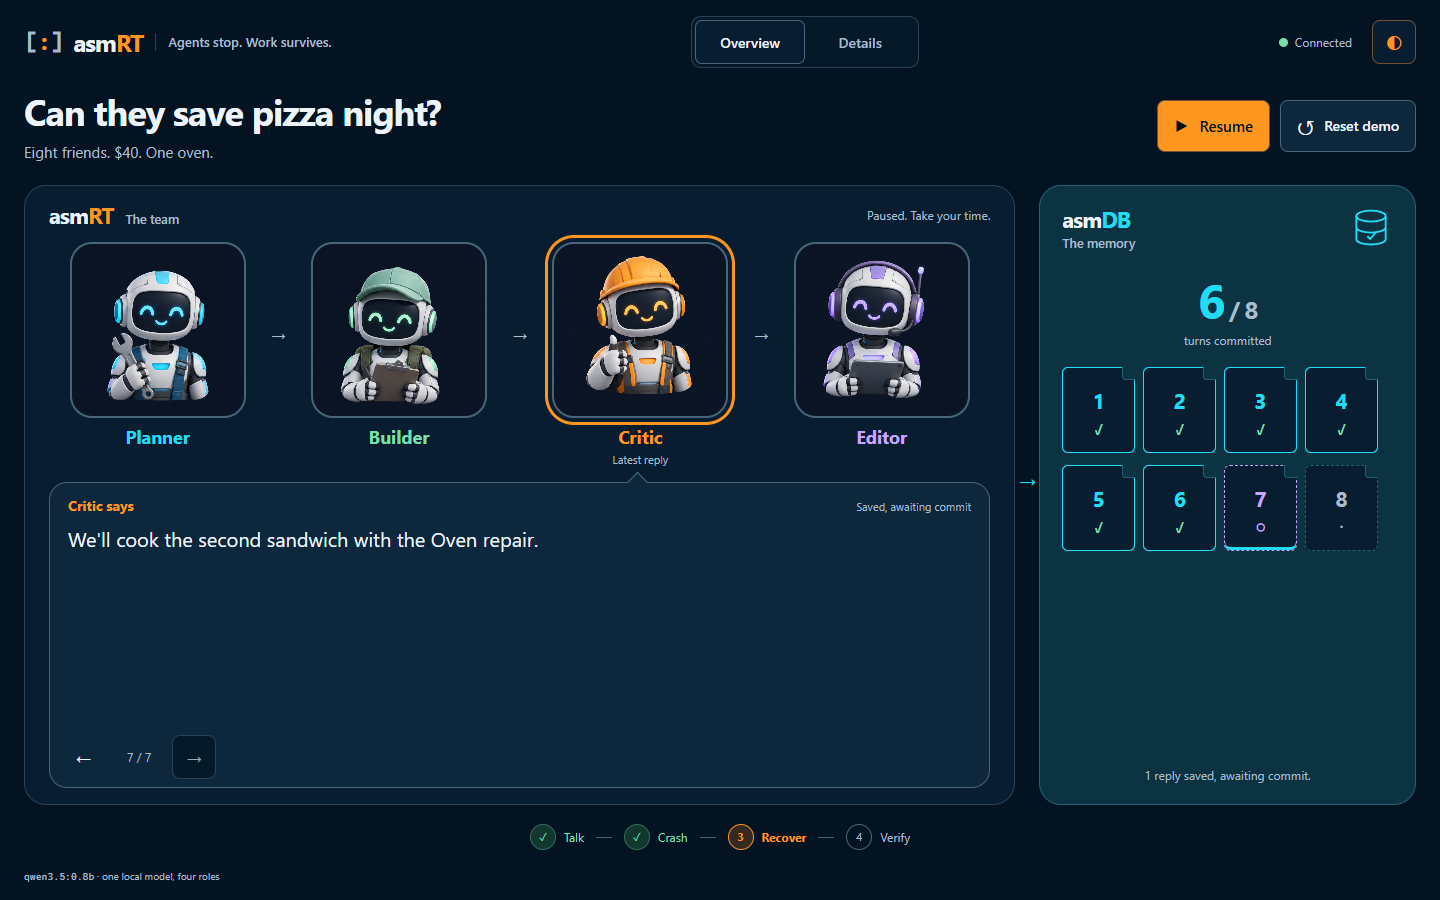
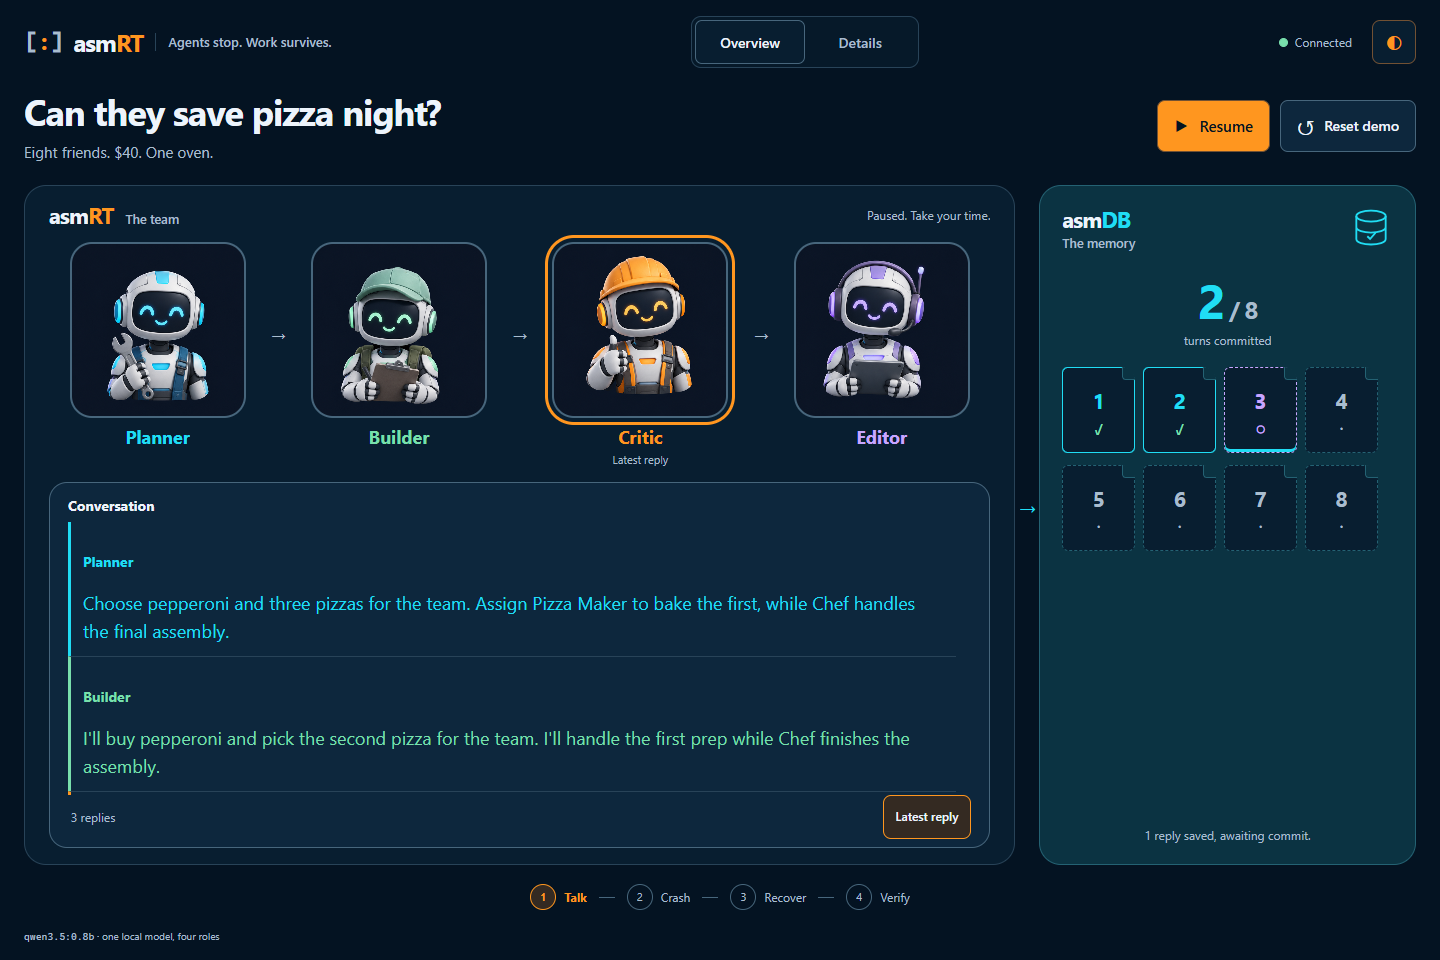
Show the full color-coded conversation in Overview
Copilot-Session: a11bb40d-148d-43e0-9e6b-bcbfa34b5919

diff --git a/visualizer/public/app.js b/visualizer/public/app.js
@@ -4,10 +4,9 @@ const byId = (id) => document.getElementById(id);
 const ui = {
   conversation: byId("conversation-view"), storageStory: byId("storage-story"),
   overview: byId("overview-stage"), overviewTitle: byId("overview-title"), overviewTopic: byId("overview-topic"),
-  overviewStatus: byId("overview-status"), overviewReply: byId("overview-reply"), overviewSpeaker: byId("overview-speaker"),
-  overviewMessage: byId("overview-message"), overviewReplyState: byId("overview-reply-state"), overviewReplyScroll: byId("overview-reply-scroll"),
-  overviewNavigation: byId("overview-reply-navigation"), overviewPosition: byId("overview-reply-position"),
-  overviewPrevious: byId("overview-previous"), overviewNext: byId("overview-next"), overviewLatest: byId("overview-latest"),
+  overviewStatus: byId("overview-status"), overviewMessages: byId("overview-messages"),
+  overviewMessage: byId("overview-message"), overviewReplyScroll: byId("overview-reply-scroll"),
+  overviewNavigation: byId("overview-reply-navigation"), overviewPosition: byId("overview-reply-position"), overviewLatest: byId("overview-latest"),
   memory: byId("overview-memory"), memoryCells: byId("overview-memory-cells"), memoryCount: byId("overview-memory-count"),
   memoryTotal: byId("overview-memory-total"), memoryNote: byId("overview-memory-note"), overviewProof: byId("overview-proof"),
   reset: byId("reset-demo"), resetDialog: byId("reset-dialog"), resetCancel: byId("cancel-reset"), resetConfirm: byId("confirm-reset"),
@@ -91,6 +90,7 @@ const publicationRevisions = new Map();
 const artifactCache = new Map();
 const definitionCache = new Map();
 const messageNodes = new Map();
+const overviewMessageNodes = new Map();
 const jobNodes = new Map();
 const memoryNodes = new Map();
 const overviewAgents = [...document.querySelectorAll("#overview-agents > li")].map(root => ({
@@ -367,6 +367,9 @@ function acceptState(next) {
     definitionView = null;
     lastConversation = null;
     selectedOverviewReply = null;
+    overviewMessageNodes.clear();
+    ui.overviewMessages.replaceChildren();
+    ui.overviewReplyScroll.scrollTop = 0;
     memoryNodes.clear();
     ui.memoryCells.replaceChildren();
     artifactCache.clear();
@@ -766,8 +769,6 @@ function renderOverview() {
   const topic = snapshot?.topic ?? (current ? state.run.topic : ui.topic.value.trim());
   const pizza = topic === DEFAULT_TOPIC;
   const cells = conversationMemory(snapshot, current ? state.database?.response : null, total);
-  const shownId = ui.overviewReply.dataset.replyId;
-  if (selectedOverviewReply === null && shownId && ui.overviewReplyScroll.contains(document.activeElement)) selectedOverviewReply = shownId;
   let index = messages.findIndex(message => message.task_id === selectedOverviewReply);
   if (index < 0) { selectedOverviewReply = null; index = messages.length - 1; }
   const message = messages[index];
@@ -805,24 +806,35 @@ function renderOverview() {
     attribute(agent.root, "data-thinking", thinking);
     attribute(agent.root, "data-selected", selected);
   }
-  const speakerSlot = Math.max(0, overviewAgents.findIndex(agent => agent.id === message?.agent_id));
-  ui.overviewReply.style.setProperty("--speaker-slot", speakerSlot);
-  ui.overviewReply.style.setProperty("--speaker-mobile-slot", speakerSlot % 2);
-  attribute(ui.overviewReply, "data-speaker", message?.agent_id ?? "");
-  attribute(ui.overviewReply, "data-reply-id", message?.task_id ?? "");
-  text(ui.overviewSpeaker, message ? `${message.agent_name} says` : current ? "No reply yet." : pizza ? "Dinner needs a plan." : "Ready for a new mission.");
-  text(ui.overviewMessage, message?.text ?? (current ? "Waiting for a complete reply. Nothing is prewritten." : "Press Start conversation. The robots take it from here."));
-  const memoryState = cells.find(cell => cell.id === message?.task_id)?.status;
-  text(ui.overviewReplyState, !message ? "" : memoryState === "committed" ? "Committed"
-    : memoryState === "unknown" ? "Record needs inspection" : message.committed ? "Awaiting DB read" : "Saved, awaiting commit");
-  attribute(ui.overviewReplyState, "data-state", memoryState ?? "");
+  const scroll = ui.overviewReplyScroll;
+  const previousLatest = ui.overviewMessages.lastElementChild?.dataset.replyId;
+  const follow = selectedOverviewReply === null && !scroll.contains(document.activeElement)
+    && scroll.scrollHeight - scroll.clientHeight - scroll.scrollTop < 48;
+  const replyIds = new Set(messages.map(reply => reply.task_id));
+  for (const id of overviewMessageNodes.keys()) if (!replyIds.has(id)) overviewMessageNodes.delete(id);
+  const replies = messages.map(reply => {
+    let entry = overviewMessageNodes.get(reply.task_id);
+    if (!entry) {
+      const root = element("li", "conversation-message overview-message");
+      root.dataset.replyId = reply.task_id;
+      const speaker = element("h4", "message-speaker");
+      const body = element("p", "message-text");
+      root.append(speaker, body);
+      entry = { root, speaker, body };
+      overviewMessageNodes.set(reply.task_id, entry);
+    }
+    attribute(entry.root, "data-speaker", reply.agent_id);
+    text(entry.speaker, reply.agent_name);
+    text(entry.body, reply.text);
+    return entry.root;
+  });
+  reconcileChildren(ui.overviewMessages, replies);
+  ui.overviewMessage.hidden = messages.length > 0;
+  text(ui.overviewMessage, current ? "Waiting for a complete reply. Nothing is prewritten." : "Press Start conversation. The robots take it from here.");
   ui.overviewNavigation.hidden = messages.length === 0;
-  ui.overviewPrevious.disabled = index <= 0;
-  ui.overviewNext.disabled = index >= messages.length - 1;
-  ui.overviewLatest.hidden = selectedOverviewReply === null;
-  text(ui.overviewPosition, messages.length ? `${index + 1} / ${messages.length}` : "");
-  attribute(ui.overviewPosition, "aria-label", messages.length ? `Saved reply ${index + 1} of ${messages.length}` : "No saved replies");
-  if (shownId !== message?.task_id && !ui.overviewReplyScroll.contains(document.activeElement)) ui.overviewReplyScroll.scrollTop = 0;
+  ui.overviewLatest.hidden = messages.length < 2;
+  text(ui.overviewPosition, `${messages.length} ${messages.length === 1 ? "reply" : "replies"}`);
+  if (previousLatest && previousLatest !== messages.at(-1)?.task_id && follow) scroll.scrollTop = scroll.scrollHeight;
 
   const labels = { committed: "Committed in asmDB", saved: "Reply saved; native completion not observed", assigned: "Assigned", waiting: "Pending", unobserved: "Not observed", unknown: "Unrecognized native record" };
   const marks = { committed: "✓", saved: "○", assigned: "…", waiting: "·", unobserved: "·", unknown: "?" };
@@ -1435,25 +1447,17 @@ bindCommand(ui.reset, () => { if (actionAllowed("reset")) { ui.resetDialog.showM
 ui.resetCancel.addEventListener("click", () => ui.resetDialog.close());
 ui.resetDialog.addEventListener("close", () => { if (!ui.reset.disabled) ui.reset.focus({ preventScroll: true }); else focusPrimary(); });
 bindCommand(ui.resetConfirm, () => { if (actionAllowed("reset")) { ui.resetDialog.close(); void performAction("reset"); } });
-function moveOverviewReply(offset) {
-  const messages = conversationSnapshot()?.messages ?? [];
-  const current = messages.findIndex(message => message.task_id === ui.overviewReply.dataset.replyId);
-  const target = messages[current + offset];
-  if (!target) return;
-  selectedOverviewReply = target.task_id;
+ui.overviewLatest.addEventListener("click", () => {
+  selectedOverviewReply = null;
   renderOverview();
-}
-ui.overviewPrevious.addEventListener("click", () => moveOverviewReply(-1));
-ui.overviewNext.addEventListener("click", () => moveOverviewReply(1));
-ui.overviewLatest.addEventListener("click", () => { selectedOverviewReply = null; renderOverview(); });
-ui.overviewReplyScroll.addEventListener("wheel", () => {
-  if (ui.overviewReply.dataset.replyId) selectedOverviewReply = ui.overviewReply.dataset.replyId;
-}, { passive: true });
+  ui.overviewReplyScroll.scrollTop = ui.overviewReplyScroll.scrollHeight;
+});
 ui.memoryCells.addEventListener("click", event => {
   const button = event.target.closest("button[data-overview-reply]");
   if (!button || !ui.memoryCells.contains(button) || button.disabled) return;
   selectedOverviewReply = button.dataset.overviewReply;
   renderOverview();
+  overviewMessageNodes.get(selectedOverviewReply)?.root.scrollIntoView({ block: "nearest" });
 });
 ui.rawRecords.addEventListener("change", () => renderDatabase(false));
 ui.allEvents.addEventListener("change", () => renderEvents([]));

diff --git a/visualizer/public/styles.css b/visualizer/public/styles.css
@@ -485,15 +485,13 @@ pre:focus-visible { outline-offset: -3px; }
 .overview-agent[data-thinking="true"] .overview-agent-status { color: var(--speaker); font-weight: 650; }
 .overview-stage[data-retained="true"] .overview-agent .worker-portrait { filter: saturate(.5); }
 .overview-reply { position: relative; flex: 1; min-height: 176px; display: flex; flex-direction: column; border: 1px solid var(--line-strong); border-radius: 18px; background: var(--surface-raised); }
-.overview-reply:not([data-reply-id=""])::before { content: ""; position: absolute; top: -8px; left: calc(12.5% + var(--speaker-slot, 0) * 25% - 7px); width: 14px; height: 14px; border-left: 1px solid var(--line-strong); border-top: 1px solid var(--line-strong); background: var(--surface-raised); transform: rotate(45deg); }
 .overview-reply-heading { flex-shrink: 0; display: flex; align-items: baseline; justify-content: space-between; flex-wrap: wrap; gap: 4px 12px; padding: 14px 18px 5px; }
-.overview-reply-heading h3 { color: var(--speaker); font-size: 14px; }
-#overview-reply-state { color: var(--muted); font-size: 11px; }
-#overview-reply-state[data-state="committed"] { color: var(--success); }
+.overview-reply-heading h3 { font-size: 14px; }
 .overview-reply-scroll { flex: 1; min-height: 84px; padding: 3px 18px 14px; overflow: auto; overscroll-behavior: contain; scrollbar-gutter: stable; scroll-padding: 12px; border-radius: 8px; }
 #overview-message { font-size: clamp(16px, 1.45vw, 20px); line-height: 1.6; white-space: pre-wrap; overflow-wrap: anywhere; }
-.overview-reply-navigation { flex-shrink: 0; display: flex; align-items: center; gap: 8px; padding: 0 12px 8px; }
-.reply-arrow { min-width: 44px; min-height: 44px; padding: 4px; border-color: transparent; background: transparent; font-size: 20px; }
+.overview-message { padding: 10px 12px; }
+.overview-message .message-text { color: var(--speaker); font-size: clamp(16px, 1.3vw, 18px); }
+.overview-reply-navigation { flex-shrink: 0; display: flex; align-items: center; gap: 8px; padding: 0 18px 8px; }
 #overview-reply-position { min-width: 50px; color: var(--muted); font-size: 12px; text-align: center; font-variant-numeric: tabular-nums; }
 #overview-latest { margin-left: auto; }
 .memory-scene { position: relative; display: flex; flex-direction: column; align-items: stretch; gap: 18px; padding: 20px 22px; border-color: var(--storage-border); background: var(--storage-soft); }
@@ -586,7 +584,6 @@ pre:focus-visible { outline-offset: -3px; }
   .overview-agent .worker-portrait { width: min(100%, 160px); }
   .overview-agent:not(:last-child)::after { right: -20px; top: 64px; }
   .overview-agent:nth-child(2)::after { display: none; }
-  .overview-reply:not([data-reply-id=""])::before { left: calc(25% + var(--speaker-mobile-slot, 0) * 50% - 7px); }
   .overview-reply-scroll { max-height: 280px; }
   .memory-scene { grid-template-columns: minmax(0, 1fr); padding: 18px; }
   .memory-scene .scene-heading h2 { flex-direction: row; gap: 12px; }

diff --git a/visualizer/public/index.html b/visualizer/public/index.html
@@ -62,13 +62,14 @@
               <li class="overview-agent" data-agent-id="editor" data-worker-slot="3"><div class="worker-portrait" role="img" aria-label="Lavender Editor robot"></div><h3>Editor</h3><p class="overview-agent-status"></p></li>
             </ol>
             <section id="overview-reply" class="overview-reply" aria-labelledby="overview-speaker">
-              <div class="overview-reply-heading"><h3 id="overview-speaker">Dinner needs a plan.</h3><span id="overview-reply-state"></span></div>
-              <div id="overview-reply-scroll" class="overview-reply-scroll" tabindex="0" role="region" aria-label="Full saved reply"><p id="overview-message" aria-live="polite" aria-atomic="true">Press Start conversation. The robots take it from here.</p></div>
+              <div class="overview-reply-heading"><h3 id="overview-speaker">Conversation</h3></div>
+              <div id="overview-reply-scroll" class="overview-reply-scroll" tabindex="0" role="log" aria-label="Full conversation, oldest reply first" aria-live="polite" aria-relevant="additions">
+                <p id="overview-message">Press Start conversation. The robots take it from here.</p>
+                <ol id="overview-messages" class="conversation-messages" aria-label="All saved agent replies"></ol>
+              </div>
               <div id="overview-reply-navigation" class="overview-reply-navigation" hidden>
-                <button id="overview-previous" class="button reply-arrow" type="button" aria-label="Previous saved reply">←</button>
                 <span id="overview-reply-position" role="status" aria-live="polite"></span>
-                <button id="overview-next" class="button reply-arrow" type="button" aria-label="Next saved reply">→</button>
-                <button id="overview-latest" class="button button-small" type="button" hidden>Follow latest</button>
+                <button id="overview-latest" class="button button-small" type="button" hidden>Latest reply</button>
               </div>
             </section>
           </section>

diff --git a/Docs/ARCHITECTURE.md b/Docs/ARCHITECTURE.md
@@ -435,7 +435,7 @@ Controller: [server.mjs](../visualizer/server.mjs). The browser is a view of the
 
 The console offers two presentations of the **same run**, not independent execution modes or different databases. The brand uses orange for **RT**, cyan for **DB**, and the four original role colors for the robots.
 
-- **Overview**, the default, is a graphical team scene beside visual memory: large robot portraits, one full saved reply in a scrollable speech bubble, selectable memory tiles, and a short Talk / Crash / Recover / Verify rail. Native completed records produce committed checks; a published reply alone does not. Previous/next and tile selection browse saved text without starting inference. Follow latest resumes following incoming replies. The only ongoing animation marks an actual observed generation; it respects reduced motion.
+- **Overview**, the default, is a graphical team scene beside visual memory: large robot portraits, the full chronological conversation colored by speaker, selectable memory tiles, and a short Talk / Crash / Recover / Verify rail. Native completed records produce committed checks; a published reply alone does not. Memory tiles scroll to the corresponding reply without hiding the rest or starting inference. Latest reply returns to the end of the thread; new replies follow only when the reader is already near the bottom. The only ongoing animation marks an actual observed generation; it respects reduced motion.
 - **Details** is the professional side-by-side transcript and native-record console. It exposes attempts, input references, timings, hashes, exact raw fields, inspectors and the desktop event dock. Controls & files holds manual commands and the storage-only demonstration. Native listing order is preserved; Overview arranges its memory tiles in conversation-turn order.
 
 The native radio selection is keyboard-operable and stored only in browser local storage. View switches and reply browsing issue no runtime command or model call. A previously checked raw-field option cannot spill technical JSON into Overview. Errors and retained-state notices remain visible in both modes. Responsive layouts stack the panes rather than shrinking the content into unreadable columns.

diff --git a/README.md b/README.md
@@ -24,7 +24,7 @@ The agents plan pizza night for eight friends on $40. In round two, the oven bre
 
 Replies 1–4 survive. Turn 5 retries and the conversation continues. A final replay reports `completed_now = 0` and `model_calls_now = 0`: completed work did not run again.
 
-**Overview** keeps the story playful: large robots, a speech bubble and visual memory. Browse saved replies with the arrows or memory tiles; **Follow latest** returns to the current reply. A check means the native database reported completion, not merely that a reply file exists.
+**Overview** keeps the story playful: large robots, the full conversation colored by agent, and visual memory. Memory tiles jump to a reply; **Latest reply** returns to the end of the conversation. A check means the native database reported completion, not merely that a reply file exists.
 
 **Details** shows the full conversation beside asmDB, with an event dock below them. Inspect the saved instructions, attempts and replies. [See the technical console and recovery evidence](Docs/ARCHITECTURE.md#7-browser-controller-and-observable-evidence).
 
